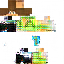
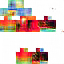
Fixed custom card

diff --git a/src/app/components/minecraft-skin-viewer/minecraft-skin-viewer.component.ts b/src/app/components/minecraft-skin-viewer/minecraft-skin-viewer.component.ts
@@ -9,11 +9,10 @@ let skinview3d = require('skinview3d');
 })
 export class MinecraftSkinViewerComponent implements OnInit {
 
-  safeToAdjustSize: boolean = false;
-  viewportWidth: number = 20;
-  viewportHeight: number = 20;
-  minWidth: number = 30*4;
-  minHeight: number = 40*4;
+  viewportWidth: number = 3*8;
+  viewportHeight: number = 4*8;
+  minWidth: number = 30*5;
+  minHeight: number = 40*5;
 
   skinViewer: any = null;
 
@@ -21,26 +20,32 @@ export class MinecraftSkinViewerComponent implements OnInit {
 
   ngAfterViewInit() {
     setInterval(() => {
-      this.safeToAdjustSize = true;
+      this.resizeViewer();
     }, 200);
   }
 
-  @HostListener('window:resize', ['$event'])
-  onResize(e: Event) {
-    console.log("Whee")
+  resizeViewer(): void {
     this.skinViewer.width = window.innerWidth * (this.viewportWidth / 100) + this.minWidth;
     this.skinViewer.height = window.innerWidth * (this.viewportHeight / 100) + this.minHeight;
   }
 
+  @HostListener('window:resize', ['$event'])
+  onResize(e: Event) {
+    this.resizeViewer();
+  }
+
   // https://github.com/bs-community/skinview3d
   ngOnInit(): void {
+    const skinParts = ["head", "body", "rightArm", "leftArm", "rightLeg", "leftLeg"];
+		const skinLayers = ["innerLayer", "outerLayer"];
+
     this.skinViewer = new skinview3d.SkinViewer({
       canvas: document.getElementById("skin_container"),
-      skin: "/assets/images/skin.png"
+      skin: "/assets/images/skin.jpg"
     });
   
     // Load another skin
-    this.skinViewer.loadSkin("img/skin2.png");
+    this.skinViewer.loadSkin("/assets/images/skin.png");
   
     // Unload(hide) the cape / elytra
     this.skinViewer.loadCape(null);
@@ -48,12 +53,19 @@ export class MinecraftSkinViewerComponent implements OnInit {
     // set the background color
     this.skinViewer.renderer.setClearColor(0x000000);
   
+    
+
+
     // Control objects with your mouse!
     let control = skinview3d.createOrbitControls(this.skinViewer);
     control.enableRotate = false;
     control.enableZoom = false;
     control.enablePan = false;
   
+    
+
+    
+
     // Add an animation
     let walk = this.skinViewer.animations.add(skinview3d.WalkingAnimation);
     // Add another animation
@@ -68,7 +80,7 @@ export class MinecraftSkinViewerComponent implements OnInit {
     // Set the speed of an animation
     run.speed = 0.2;
     // Pause single animation
-    run.paused = true;
+    //run.paused = true;
     // Pause all animations!
     //skinViewer.animations.paused = true;
   }

diff --git a/src/app/app.component.html b/src/app/app.component.html
@@ -1,6 +1,6 @@
 <div id="app-main-container">
     
-    <div id="main">
+    <div id="main" appScrollSnap>
 
         <div id="landing-screen" class="landing-screen-theme screen">
 
@@ -68,9 +68,12 @@
         <app-introduction></app-introduction> -->
     
         <div id="introduction-screen" class="screen">
-            <h2>The Minecraft spinoff of "thispersondoesnotexist" you didn't know you wanted.</h2>
-            <p>ThisMinecraftPlayerDoesNotExist is an experiment to see if we could recreate the GAN phenonomen known as thispersondoesnotexist in the context of the voxel sandbox game Minecraft.
-                More importantly, we hope this website can introduce people to what GAN's are in a fun, interactive format. We hope you enjoy this as much as we did making this! </p>
+            <h2>The Minecraft spinoff of "thispersondoesnotexist" you didn't know you needed.</h2>
+            <app-custom-card title="Our Mission">
+                ThisMinecraftPlayerDoesNotExist is an experiment to see if we could recreate the GAN phenonomen known as thispersondoesnotexist in the context of the voxel sandbox game Minecraft.
+                More importantly, we hope this website can introduce people to what GAN's are in a fun, interactive format. We hope you enjoy this as much as we did making this!
+            </app-custom-card>
+            <p> </p>
             
         </div>
     

diff --git a/src/app/components/custom-card/custom-card.component.scss b/src/app/components/custom-card/custom-card.component.scss
@@ -1,24 +1,28 @@
 .custom-card-main-container {
     // width: 100%;
     // height: 100%;
-    width: 300px;
-    height: 200px;
+    position: relative;
+    max-width: 600px;
     border: 2px black solid;
     border-radius: 5px;
-
+    
+    display: flex;
+    flex-direction: column;
+    justify-content: center;
     padding: 10px;
 }
 
 .custom-card-title {
     display: inline-block;
-    position: relative;
-    top: -27px;
-    left: -21px;
+    position: absolute;
+    top: -16px;
+    left: -9px;
     min-width: 100px;
     background-color: #fafafa;
     padding: 5px; 
 }
 
 .custom-card-description {
-
+    padding: 15px;
+    flex: 1;
 }

diff --git a/src/app/app.component.scss b/src/app/app.component.scss
@@ -1,11 +1,11 @@
 @import "/src/styles.scss";
 
 #landing-screen {
-  height: 99vh;
+  height: 101vh;
   width: 100vw;
   display: flex;
   flex-direction: column;
-  justify-content: center;
+  justify-content: space-around;
   align-items: center;    
 }
 
@@ -246,7 +246,6 @@ p {
     justify-content: center;
     align-items: center;
     padding-bottom: 8px;
-    background-color: blue;
     z-index: 4;
     //background: var(--color-primary);//linear-gradient(to right, var(--color-accent) 5%, var(--color-primary) 40%, var(--color-primary));
     // -webkit-box-shadow: 0px 6px 10px 2px rgba(0,0,0,0.1); 
